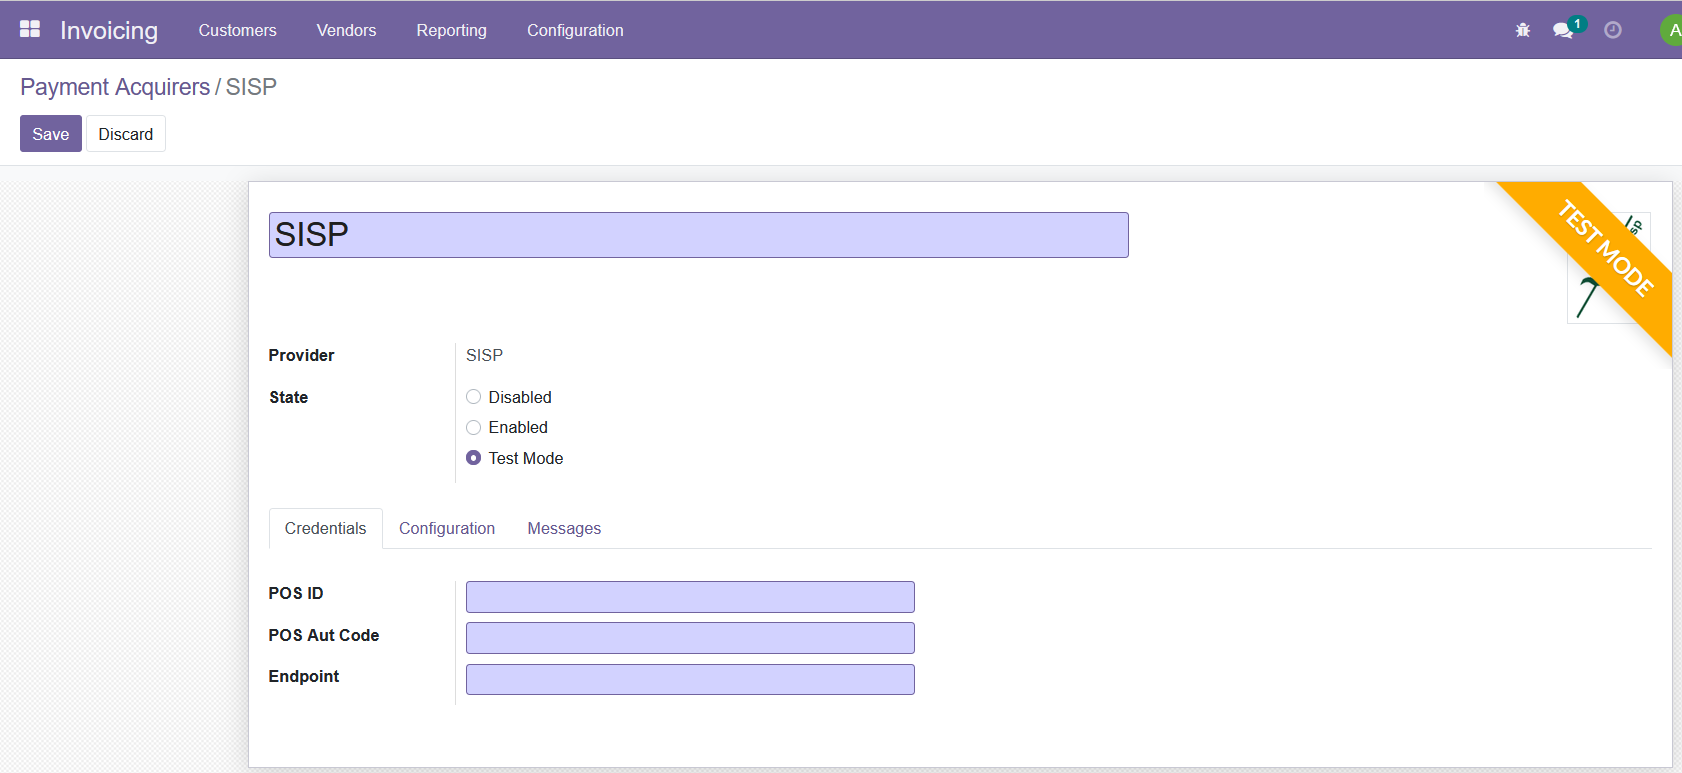
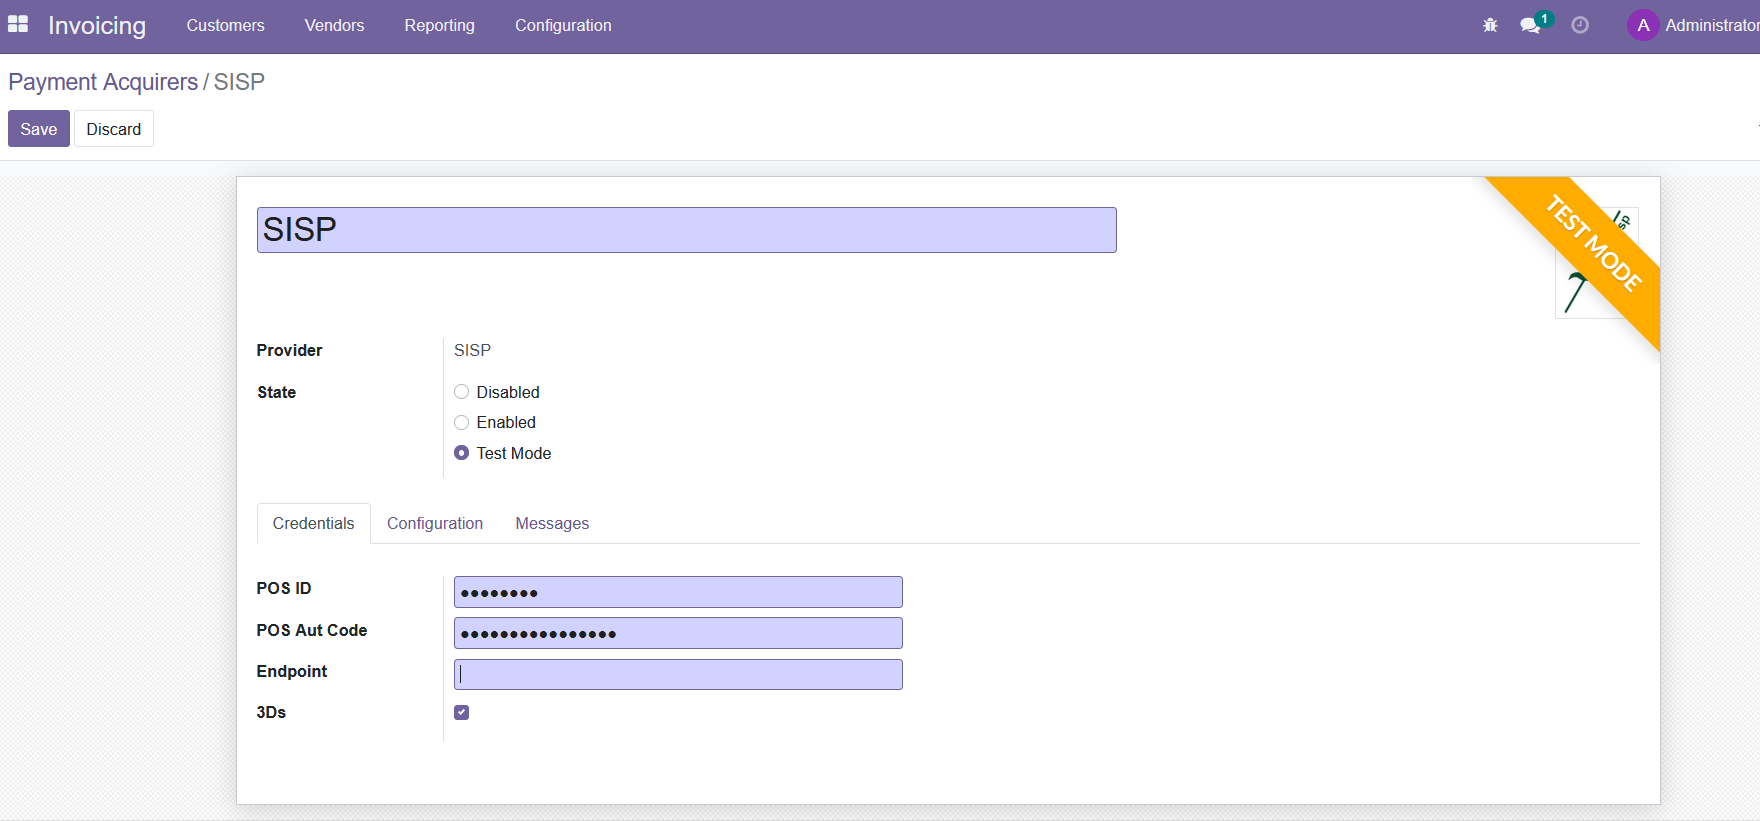
Implementing 3Ds

diff --git a/payment_sisp/static/description/index.html b/payment_sisp/static/description/index.html
@@ -58,6 +58,19 @@
         <div class="col-lg-12 my-2">
             <h1 class="my-2"
                 style="font-family: 'Montserrat', sans-serif !important; color: #282F33 !important;">
+                E-commerce Payment</h1>
+            <p
+                style="font-family: 'Montserrat', sans-serif !important; font-weight:300; font-size: 16px; color: #282F33 !important; margin-bottom: 15px;">
+                Pay from e-commerce website
+            </p>
+
+            <img src="assets/img/screen05.png" class="img-responsive img-thumbnail border" width="100%"
+                height="50px" />
+        </div>
+
+        <div class="col-lg-12 my-2">
+            <h1 class="my-2"
+                style="font-family: 'Montserrat', sans-serif !important; color: #282F33 !important;">
                 Credit Card Payment</h1>
             <p
                 style="font-family: 'Montserrat', sans-serif !important; font-weight:300; font-size: 16px; color: #282F33 !important; margin-bottom: 15px;">

diff --git a/payment_sisp/models/payment_transaction.py b/payment_sisp/models/payment_transaction.py
@@ -4,6 +4,7 @@ from datetime import datetime
 import logging
 import hashlib
 import base64
+import json
 
 from odoo import _, api, models
 from odoo.exceptions import ValidationError
@@ -47,6 +48,8 @@ class PaymentTransaction(models.Model):
             'FingerPrintVersion': sisp_tx_values['fingerprintversion'],
         }
         sisp_tx_values['api_url'] = '{}?{}'.format(self.acquirer_id.sisp_endpoint, urls.url_encode(query_string))
+        if self.acquirer_id.sisp_3ds:
+            sisp_tx_values['purchaseRequest'] = self._generate_purchase_request()
         return sisp_tx_values
 
     @api.model
@@ -128,3 +131,44 @@ class PaymentTransaction(models.Model):
             kwargs['merchantRespReloadCode']
         )
         return base64.b64encode(hashlib.sha512(bytes(to_hash, "ascii")).digest()).decode("ascii")
+
+    def _generate_purchase_request(self):
+        purchase_request = {
+            'acctID': 'x',
+            'acctInfo': {
+                'chAccAgeInd': '05',
+                'chAccChange':  self.env.user.write_date.strftime("%Y%m%d"),
+                'chAccDate': self.env.user.create_date.strftime("%Y%m%d"),
+                'chAccPwChange': self.env.user.write_date.strftime("%Y%m%d"),
+                'chAccPwChangeInd': '05',
+                'suspiciousAccActivity': '01'
+            },
+
+            'email': self.env.user.partner_id.email or None,
+
+            'addrMatch': 'Y',
+            'billAddrCity': self.env.user.partner_id.city or None,
+            'billAddrCountry': '620',
+            'billAddrLine1': self.env.user.partner_id.street or None,
+            'billAddrLine2': self.env.user.partner_id.street2 or None,
+            'billAddrLine3': self.env.user.partner_id.street2 or None,
+            'billAddrPostCode': self.env.user.partner_id.zip or None,
+            'billAddrState': self.env.user.partner_id.state_id.code or None,
+
+            'shipAddrCity': self.env.user.partner_id.city or None,
+            'shipAddrCountry': '620',
+            'shipAddrLine1': self.env.user.partner_id.street or None,
+            'shipAddrPostCode': self.env.user.partner_id.zip or None,
+            'shipAddrState': self.env.user.partner_id.state_id.code or None,
+
+            'workPhone': {
+                'cc': '1',
+                'subscriber': self.env.user.partner_id.mobile or None
+            },
+
+            'mobilePhone': {
+                'cc': '1',
+                'subscriber': self.env.user.partner_id.mobile or None
+            }
+        }
+        return base64.b64encode(json.dumps(purchase_request).encode()).decode("ascii")

diff --git a/payment_sisp/models/payment_acquirer.py b/payment_sisp/models/payment_acquirer.py
@@ -13,6 +13,7 @@ class PaymentAcquirer(models.Model):
     sisp_pos_id = fields.Char(required_if_provider='sisp', groups='base.group_user', string='POS ID')
     sisp_pos_aut_code = fields.Char(required_if_provider='sisp', groups='base.group_user', string='POS AuthCode')
     sisp_endpoint = fields.Char(required_if_provider='sisp', groups='base.group_user', string='Endpoint')
+    sisp_3ds = fields.Boolean(groups='base.group_user', string='3Ds')
 
     @api.model
     def _get_compatible_acquirers(self, *args, is_validation=False, **kwargs):
